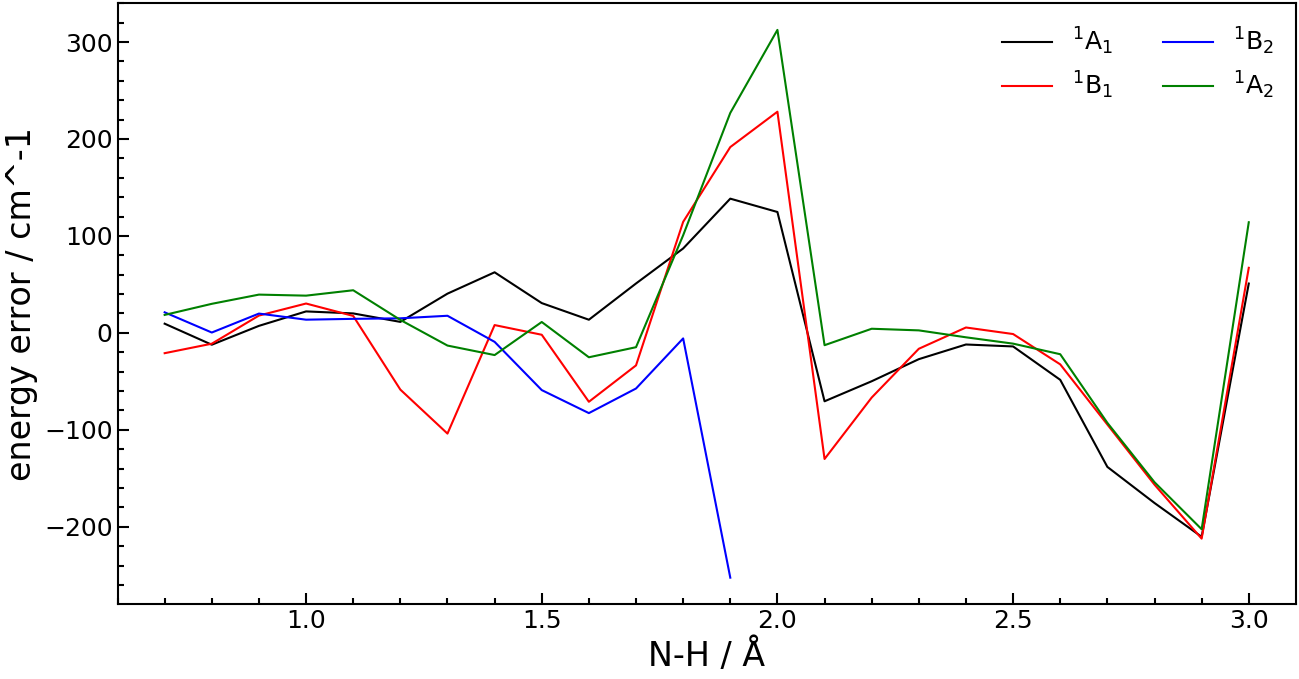
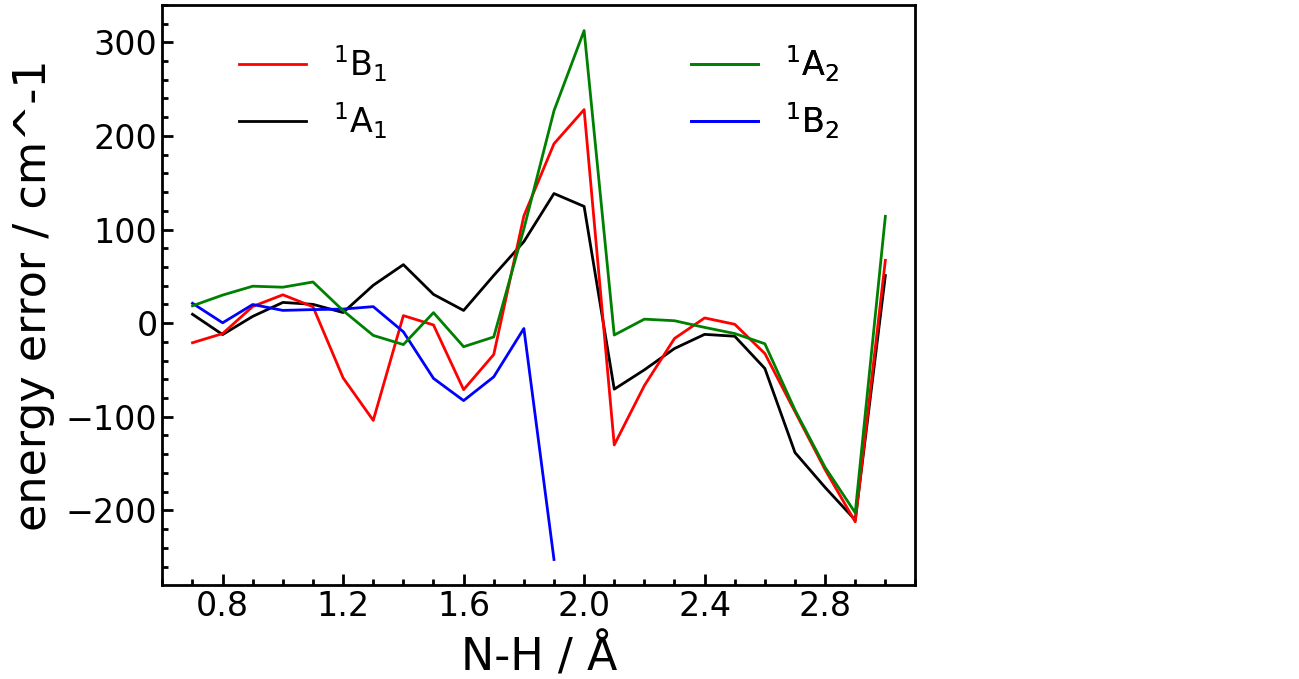
make fast figures suitable for half page

diff --git a/diabatz/analysis/fast/plot_surface.py b/diabatz/analysis/fast/plot_surface.py
@@ -23,26 +23,29 @@ labels = ["$^1$A$_1$", "$^1$B$_1$", "$^1$B$_2$", "$^1$A$_2$"]
 scatters = []
 lines = []
 for i in range(4):
-    scatter = ax.scatter(NH, energy_abinitio[:, i], color=colors[i], label="$\it{ab}$ " + labels[i], s=100, facecolors="none")
-    line,   = ax.plot   (NH, energy_diabatz [:, i], color=colors[i], label="model "     + labels[i])
+    scatter = ax.scatter(NH, energy_abinitio[:, i], color=colors[i], label="$\it{ab}$ " + labels[i], s=300, linewidth=2, facecolors="none")
+    line,   = ax.plot   (NH, energy_diabatz [:, i], color=colors[i], label="model "     + labels[i], linewidth=2)
     scatters.append(scatter)
     lines   .append(line   )
 
-ax.set_xlabel("N-H / Å"    , fontsize=24)
-ax.set_ylabel("energy / eV", fontsize=24)
+ax.set_xlabel("N-H / Å"    , fontsize=32, labelpad=8)
+ax.set_ylabel("energy / eV", fontsize=32, labelpad=8)
 
-ax.set_xlim( 0.6,  3.1)
-ax.set_ylim(-0.5, 10.5)
+ax.set_xlim( 0.6, 3.1)
+ax.set_ylim(-0.5, 8.5)
 
-for side in ("top", "bottom", "left", "right"): ax.spines[side].set_linewidth(1.5)
+ax.set_xticks((0.8, 1.2, 1.6, 2.0, 2.4, 2.8))
+ax.set_yticks((0, 2, 4, 6, 8))
 
-ax.tick_params(direction="in", length=8, width=1.5, labelsize=18)
+for side in ("top", "bottom", "left", "right"): ax.spines[side].set_linewidth(2)
+
+ax.tick_params(direction="in", length=8, width=2, labelsize=24)
 
 ax.minorticks_on()
-ax.tick_params(direction="in", length=4, width=1.5, which="minor")
+ax.tick_params(direction="in", length=4, width=2, which="minor")
 
-legend_ab    = plt.legend(handles=scatters, ncol=2, loc="center", bbox_to_anchor=(0.75, 0.85), fontsize=18, frameon=False)
-legend_model = plt.legend(handles=lines   , ncol=2, loc="center", bbox_to_anchor=(0.75, 0.15), fontsize=18, frameon=False)
+legend_ab    = plt.legend(handles=scatters[::-1], ncol=1, loc="center", bbox_to_anchor=(0.86, 0.25), fontsize=24, frameon=False)
+legend_model = plt.legend(handles=lines   [::-1], ncol=1, loc="center", bbox_to_anchor=(0.60, 0.25), fontsize=24, frameon=False)
 ax.add_artist(legend_ab   )
 ax.add_artist(legend_model)
 

diff --git a/diabatz/analysis/fast/plot_error.py b/diabatz/analysis/fast/plot_error.py
@@ -20,22 +20,29 @@ fig, ax = plt.subplots()
 
 colors = ["black", "red", "blue", "green"]
 labels = ["$^1$A$_1$", "$^1$B$_1$", "$^1$B$_2$", "$^1$A$_2$"]
+lines = []
 for i in range(4):
-    ax.plot(NH, error[:, i], color=colors[i], label=labels[i])
+    line, = ax.plot(NH, error[:, i], color=colors[i], label=labels[i], linewidth=2)
+    lines.append(line)
 
-ax.set_xlabel("N-H / Å"             , fontsize=24)
-ax.set_ylabel("energy error / cm^-1", fontsize=24)
+ax.set_xlabel("N-H / Å"             , fontsize=32, labelpad=8)
+ax.set_ylabel("energy error / cm^-1", fontsize=32, labelpad=8)
 
 ax.set_xlim( 0.6, 3.1)
 ax.set_ylim(-280, 340)
 
-for side in ("top", "bottom", "left", "right"): ax.spines[side].set_linewidth(1.5)
+ax.set_xticks((0.8, 1.2, 1.6, 2.0, 2.4, 2.8))
 
-ax.tick_params(direction="in", length=8, width=1.5, labelsize=18)
+for side in ("top", "bottom", "left", "right"): ax.spines[side].set_linewidth(2)
+
+ax.tick_params(direction="in", length=8, width=2, labelsize=24)
 
 ax.minorticks_on()
-ax.tick_params(direction="in", length=4, width=1.5, which="minor")
+ax.tick_params(direction="in", length=4, width=2, which="minor")
 
-plt.legend(ncol=2, loc="upper right", fontsize=18, frameon=False)
+legend_01 = plt.legend(handles=lines[1: :-1], ncol=1, loc="center", bbox_to_anchor=(0.2, 0.85), fontsize=24, frameon=False)
+legend_23 = plt.legend(handles=lines[3:1:-1], ncol=1, loc="center", bbox_to_anchor=(0.8, 0.85), fontsize=24, frameon=False)
+ax.add_artist(legend_01)
+ax.add_artist(legend_23)
 
 plt.show()
